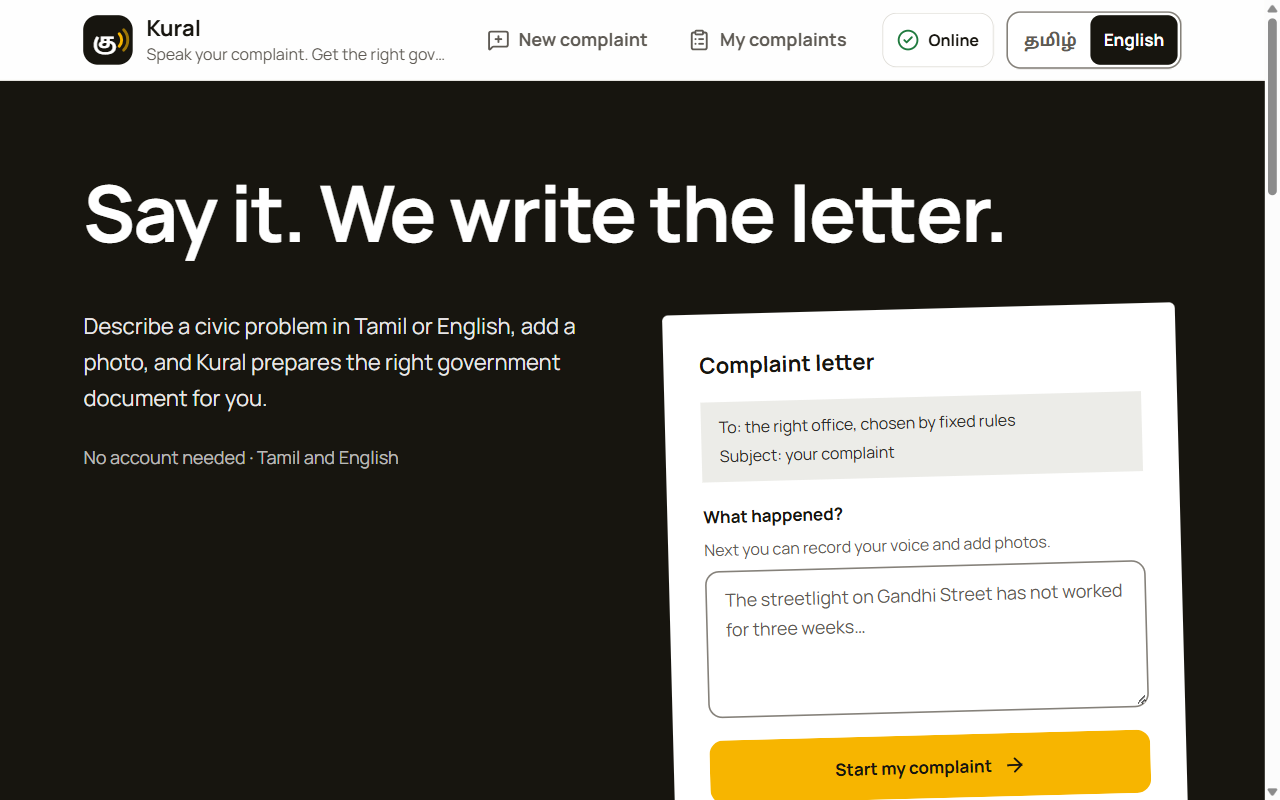
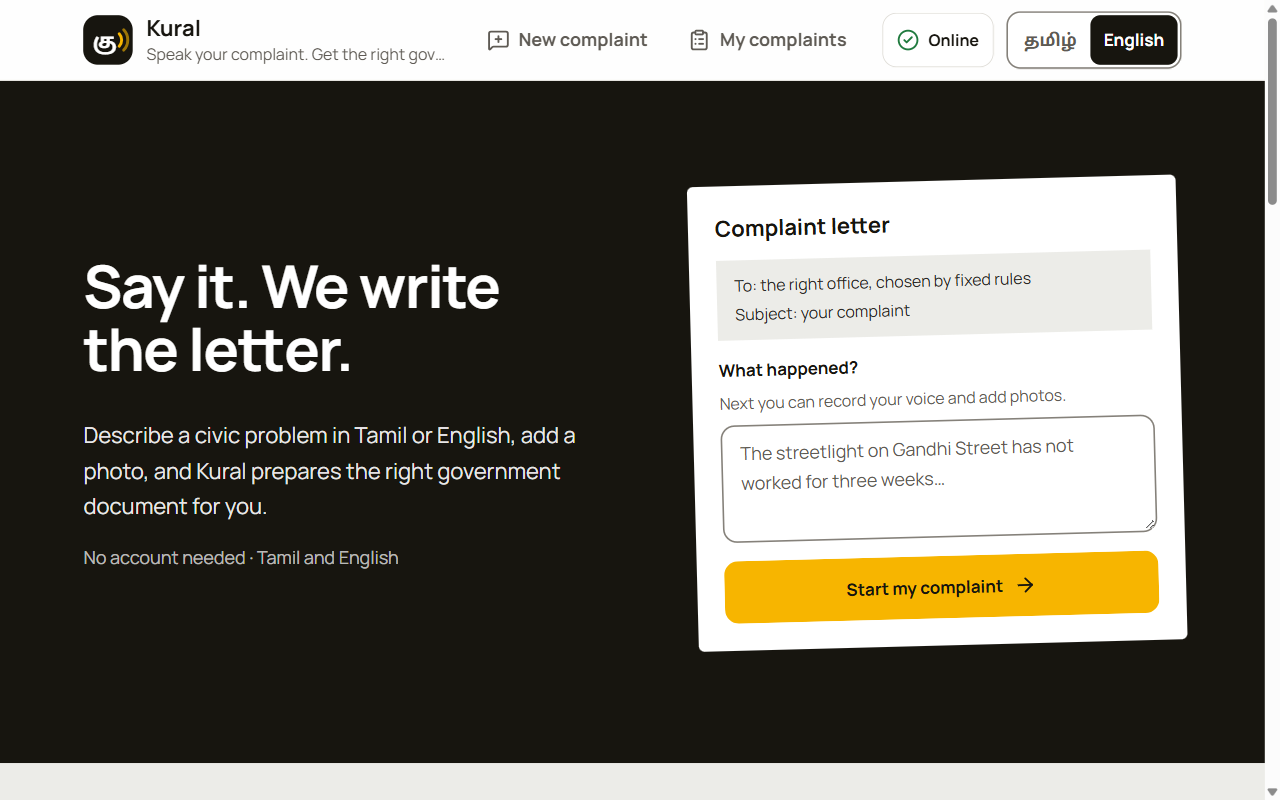
Fit the landing hero to the viewport so the first screen is complete
The hero is sized to the window height with the headline and intro in one column and the letter card beside it, so the start button is always visible on laptops. Refresh README screenshots.

Changed region(s): [[0.0, 0.2188, 1.0, 1.0], [0.0625, 0.6875, 0.3125, 0.7188]]

diff --git a/frontend/src/pages/Landing.jsx b/frontend/src/pages/Landing.jsx
@@ -41,7 +41,7 @@ function Letter() {
   return (
     <form
       onSubmit={start}
-      className="rotate-0 space-y-5 rounded-[6px] bg-surface p-6 sm:p-8 lg:-rotate-[1.5deg]"
+      className="rotate-0 space-y-4 rounded-[6px] bg-surface p-6 lg:-rotate-[1.5deg]"
       aria-label={t('landing.sheet.title')}
     >
       <p className="text-card font-bold text-heading">{t('landing.sheet.title')}</p>
@@ -52,7 +52,7 @@ function Letter() {
       <Textarea
         label={t('landing.sheet.label')}
         hint={t('landing.sheet.hint')}
-        rows={4}
+        rows={3}
         marker={false}
         maxLength={5000}
         lang={uiLang}
@@ -70,37 +70,27 @@ function Letter() {
 function Hero() {
   const { t, uiLang } = useLanguage()
   // Tamil runs longer and its glyphs are wider, so it steps down to stay within two lines.
-  const size = uiLang === 'ta' ? 'text-[clamp(1.6rem,3.6vw+0.5rem,3.4rem)]' : 'text-[clamp(2.4rem,5.4vw+0.5rem,5rem)]'
+  const size = uiLang === 'ta' ? 'text-[clamp(1.7rem,min(3vw,6vh),3rem)]' : 'text-[clamp(2.4rem,min(4.6vw,8.5vh),4.5rem)]'
+  const rise = (delay) => ({
+    initial: { opacity: 0, y: 28 },
+    animate: { opacity: 1, y: 0 },
+    transition: { duration: 0.6, delay, ease: [0.22, 1, 0.36, 1] },
+  })
   return (
-    <section aria-labelledby="hero-title" className="bg-heading">
-      <div className={`${FRAME} space-y-12 pb-16 pt-12 sm:pb-24 sm:pt-20`}>
-        <motion.h1
-          id="hero-title"
-          className={`font-bold leading-[1.08] text-white ${size} ${uiLang === 'ta' ? '' : 'max-w-[22ch]'}`}
-          initial={{ opacity: 0, y: 28 }}
-          animate={{ opacity: 1, y: 0 }}
-          transition={{ duration: 0.6, ease: [0.22, 1, 0.36, 1] }}
-        >
-          {t('landing.hero.title')}
-        </motion.h1>
-        <div className="grid items-start gap-12 lg:grid-cols-2 lg:gap-16">
-          <motion.div
-            className="space-y-6"
-            initial={{ opacity: 0, y: 24 }}
-            animate={{ opacity: 1, y: 0 }}
-            transition={{ duration: 0.5, delay: 0.12, ease: [0.22, 1, 0.36, 1] }}
-          >
+    <section aria-labelledby="hero-title" className="bg-heading lg:flex lg:min-h-[calc(100svh-6.5rem)] lg:items-center">
+      <div className={`${FRAME} grid items-center gap-10 pb-12 pt-10 sm:pb-16 sm:pt-12 lg:grid-cols-[1.1fr_1fr] lg:gap-16`}>
+        <div className="space-y-6 sm:space-y-8">
+          <motion.h1 id="hero-title" className={`font-bold leading-[1.08] text-white ${size}`} {...rise(0)}>
+            {t('landing.hero.title')}
+          </motion.h1>
+          <motion.div className="space-y-4" {...rise(0.12)}>
             <p className="max-w-[40ch] text-card leading-relaxed text-white/90">{t('landing.hero.lead')}</p>
             <p className="text-white/70">{t('landing.hero.note')}</p>
           </motion.div>
-          <motion.div
-            initial={{ opacity: 0, y: 32 }}
-            animate={{ opacity: 1, y: 0 }}
-            transition={{ duration: 0.6, delay: 0.22, ease: [0.22, 1, 0.36, 1] }}
-          >
-            <Letter />
-          </motion.div>
         </div>
+        <motion.div {...rise(0.22)}>
+          <Letter />
+        </motion.div>
       </div>
     </section>
   )
